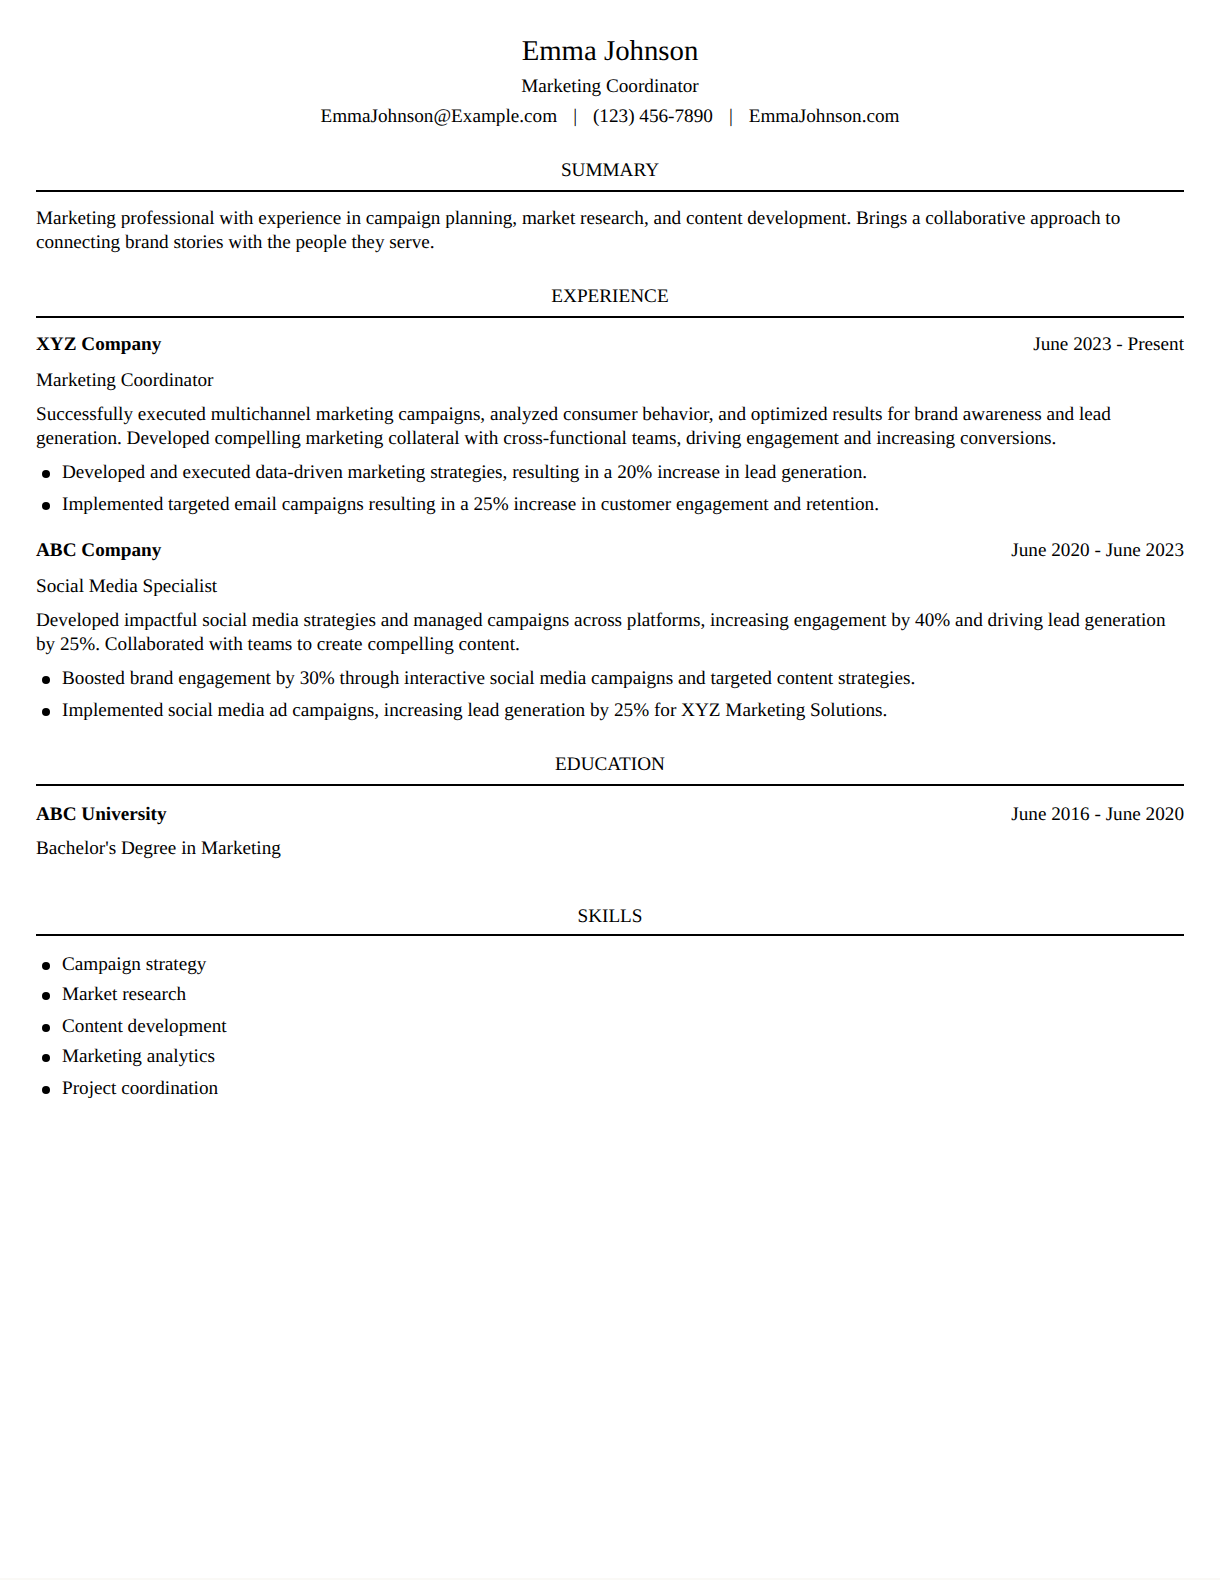
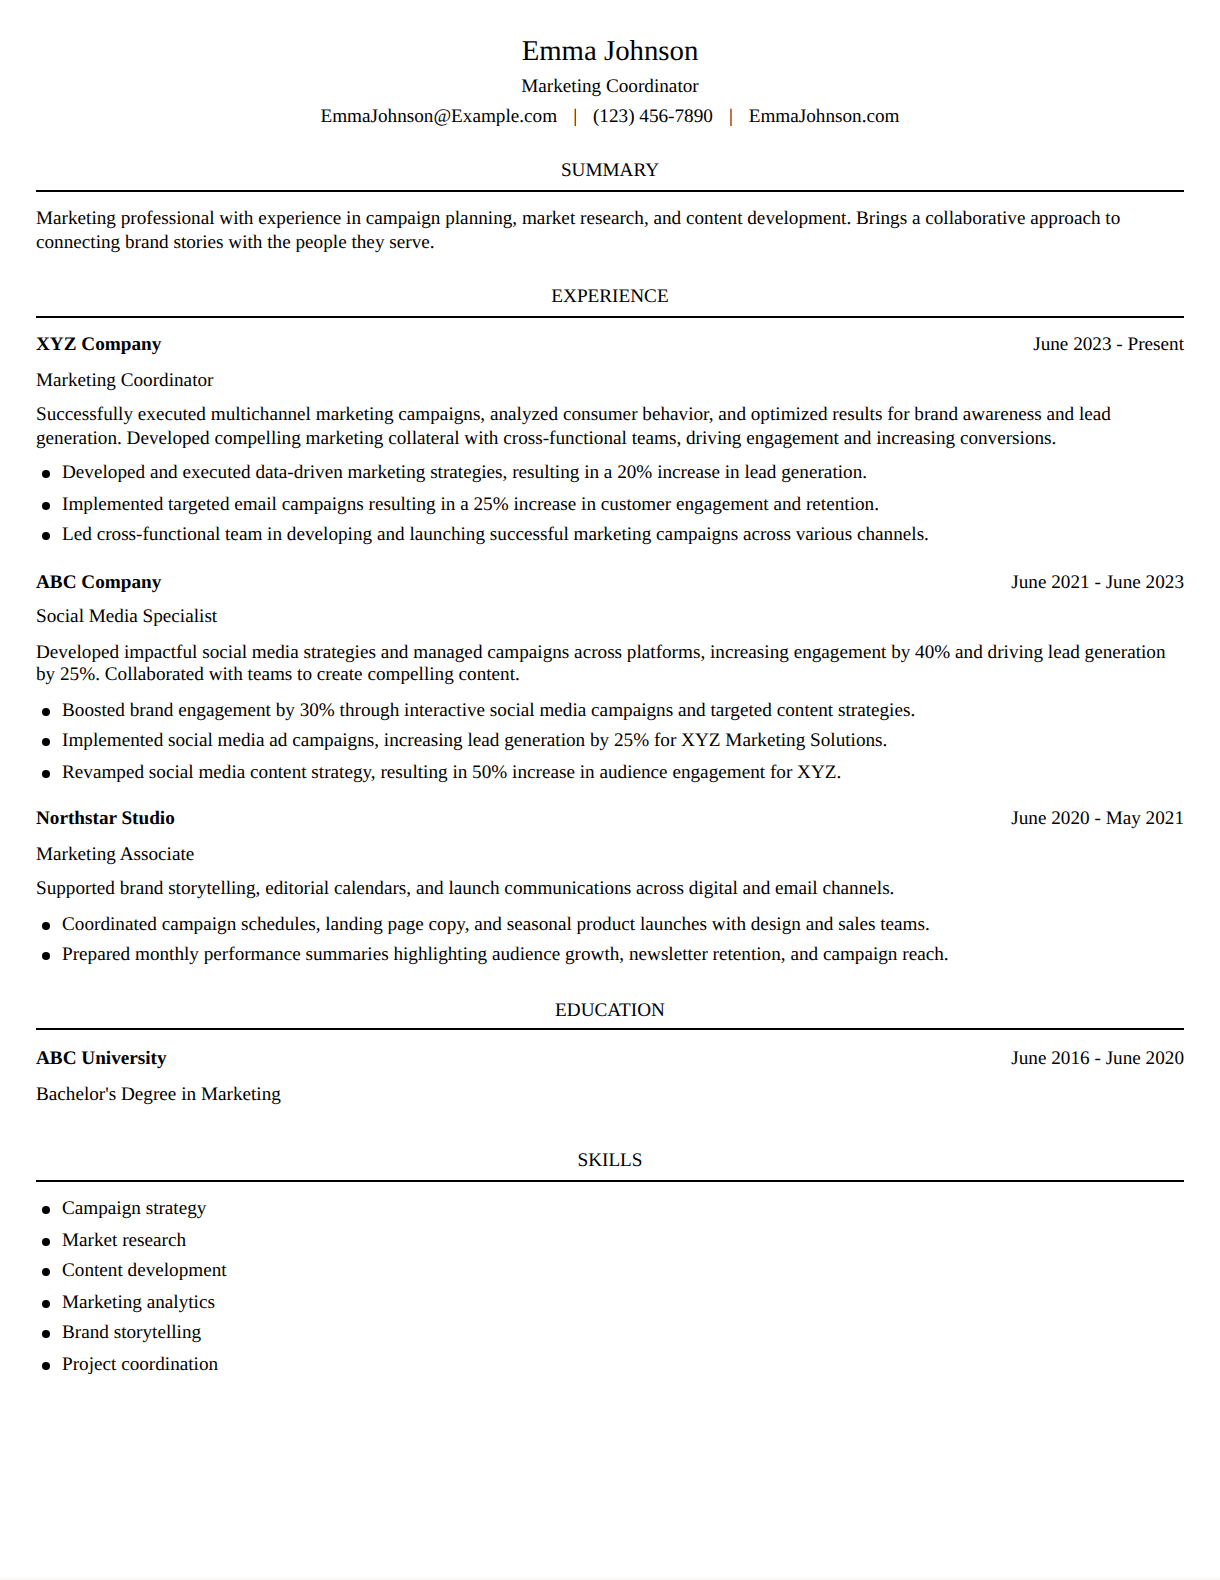
feat: add signed-in homepage dashboard actions and fuller template previews

diff --git a/src/components/landing-page/modern-sections/ModernSections.tsx b/src/components/landing-page/modern-sections/ModernSections.tsx
@@ -27,10 +27,11 @@ const templates = [
 
 type TemplateId = (typeof templates)[number]["id"];
 
-export default function ModernSections() {
+export default function ModernSections({ isSignedIn = false }: { isSignedIn?: boolean }) {
     const rootRef = useRef<HTMLDivElement>(null);
     const [selectedTemplate, setSelectedTemplate] = useState<TemplateId>("basic");
     const currentTemplate = templates.find((template) => template.id === selectedTemplate) ?? templates[0];
+    const ctaHref = isSignedIn ? "/dashboard" : "/sign-up";
 
     useEffect(() => {
         const root = rootRef.current;
@@ -84,7 +85,7 @@ export default function ModernSections() {
             </section>
 
             <section id="how-it-works" className={styles.workflow} aria-labelledby="workflow-heading">
-                <div className={styles.workflowHeading} data-reveal><p className={styles.eyebrow}><span /> A CLEAR WAY FORWARD</p><h2 id="workflow-heading">From a blank page<br /> to your next <em>hello.</em></h2><Link href="/sign-up" className={styles.textLink}>Let&apos;s get started <Icon name="arrow" /></Link></div>
+                <div className={styles.workflowHeading} data-reveal><p className={styles.eyebrow}><span /> A CLEAR WAY FORWARD</p><h2 id="workflow-heading">From a blank page<br /> to your next <em>hello.</em></h2><Link href={ctaHref} className={styles.textLink}>{isSignedIn ? "Open dashboard" : "Let\u2019s get started"} <Icon name="arrow" /></Link></div>
                 <div className={styles.steps}>
                     <article className={styles.step} data-reveal><span className={styles.stepNumber}>01</span><div><h3>Start with your story.</h3><p>Add your experience, skills, and education. This is the foundation we&apos;ll build on together.</p></div><Icon name="document" /></article>
                     <article className={styles.step} data-reveal><span className={styles.stepNumber}>02</span><div><h3>Make it fit the opportunity.</h3><p>Add the job details, get help with the words, and choose a template that feels like you.</p></div><Icon name="spark" /></article>
@@ -93,7 +94,7 @@ export default function ModernSections() {
             </section>
 
             <section id="templates" className={styles.templates} aria-labelledby="templates-heading">
-                <div className={styles.templateIntro} data-reveal><p className={styles.eyebrow}><span /> A GOOD FIRST IMPRESSION</p><h2 id="templates-heading">Your story.<br /> Your style.</h2><p>Considered layouts. Clear typography.<br />A little personality, in all the right places.</p><div className={styles.templateOptions} role="group" aria-label="Choose a resume template preview">{templates.map((template, index) => <button key={template.id} type="button" aria-pressed={selectedTemplate === template.id} aria-controls="resume-template-preview" onClick={() => setSelectedTemplate(template.id)} className={`${styles.templateOption} ${selectedTemplate === template.id ? styles.templateSelected : ""}`}><span className={styles.templateIndex}>0{index + 1}</span><span><strong>{template.name}</strong><small>{template.label}</small></span><span className={styles.templateRadio}>{selectedTemplate === template.id && <Icon name="check" />}</span></button>)}</div><Link href="/sign-up" className={styles.primaryLink}>Find your style <Icon name="arrow" /></Link></div>
+                <div className={styles.templateIntro} data-reveal><p className={styles.eyebrow}><span /> A GOOD FIRST IMPRESSION</p><h2 id="templates-heading">Your story.<br /> Your style.</h2><p>Considered layouts. Clear typography.<br />A little personality, in all the right places.</p><div className={styles.templateOptions} role="group" aria-label="Choose a resume template preview">{templates.map((template, index) => <button key={template.id} type="button" aria-pressed={selectedTemplate === template.id} aria-controls="resume-template-preview" onClick={() => setSelectedTemplate(template.id)} className={`${styles.templateOption} ${selectedTemplate === template.id ? styles.templateSelected : ""}`}><span className={styles.templateIndex}>0{index + 1}</span><span><strong>{template.name}</strong><small>{template.label}</small></span><span className={styles.templateRadio}>{selectedTemplate === template.id && <Icon name="check" />}</span></button>)}</div><Link href={isSignedIn ? "/dashboard?menu=resumes" : "/sign-up"} className={styles.primaryLink}>{isSignedIn ? "Open your resumes" : "Find your style"} <Icon name="arrow" /></Link></div>
                 <div className={styles.templateStage} data-reveal><div className={styles.stageTop}><span>THE TEMPLATE EDIT</span><span>Made for your next chapter ↗</span></div><div className={styles.previewFrame} id="resume-template-preview"><div className={styles.shadowPaper} aria-hidden="true" /><div key={selectedTemplate} className={styles.activePaper}><ActualTemplatePreview template={selectedTemplate} /></div><span className={styles.previewTag}><span /> {currentTemplate.name} / Resume</span></div><div className={styles.stageCaption}><p aria-live="polite"><strong>{currentTemplate.name}.</strong> {currentTemplate.description}</p><span>Actual template · sample content</span></div></div>
             </section>
         </div>

diff --git a/src/app/page.tsx b/src/app/page.tsx
@@ -30,8 +30,8 @@ export default async function Home() {
             <a className={styles.skipLink} href="#main-content">Skip to content</a>
             <Navbar style={{ backgroundColor: "#faf9f6", color: "#202520" }} />
             <div id="main-content" tabIndex={-1} className={styles.content}>
-                <ModernHero />
-                <ModernSections />
+                <ModernHero isSignedIn={Boolean(user)} />
+                <ModernSections isSignedIn={Boolean(user)} />
                 <section id="pricing" className={styles.priceSection} aria-labelledby="pricing-heading">
                     <div className={styles.priceHeading}>
                         <p className={styles.sectionEyebrow}>A SMALL INVESTMENT. A NEW POSSIBILITY.</p>
@@ -49,8 +49,8 @@ export default async function Home() {
                     <p className={styles.sectionEyebrow}>YOUR EXPERIENCE. YOUR POTENTIAL.</p>
                     <h2 id="cta-heading">Your next chapter<br />deserves a <em>strong start.</em></h2>
                     <p>Bring your story. We’ll help you put it on paper.</p>
-                    <Link href="/sign-up" className={styles.ctaButton}>Create my free resume <span aria-hidden="true">↗</span></Link>
-                    <span className={styles.ctaNote}>Free to start · No credit card required</span>
+                    <Link href={user ? "/dashboard" : "/sign-up"} className={styles.ctaButton}>{user ? "Open my dashboard" : "Create my free resume"} <span aria-hidden="true">↗</span></Link>
+                    <span className={styles.ctaNote}>{user ? "Pick up right where you left off" : "Free to start · No credit card required"}</span>
                 </section>
             </div>
             <Footer style={{ backgroundColor: "#faf9f6", color: "#202520" }} />

diff --git a/src/components/landing-page/modern-hero/ModernHero.tsx b/src/components/landing-page/modern-hero/ModernHero.tsx
@@ -25,8 +25,10 @@ function Sparkle({ className }: { className?: string }) {
 const originalBullet = "Worked with the design and engineering teams to improve the onboarding experience.";
 const improvedBullet = "Partnered with design and engineering to simplify onboarding, turning customer insights into a clearer first-use experience.";
 
-export default function ModernHero() {
+export default function ModernHero({ isSignedIn = false }: { isSignedIn?: boolean }) {
     const [isImproved, setIsImproved] = useState(false);
+    const primaryHref = isSignedIn ? "/dashboard" : "/sign-up";
+    const primaryLabel = isSignedIn ? "Open dashboard" : "Build my résumé";
 
     return (
         <section className={styles.hero} aria-labelledby="hero-heading">
@@ -41,8 +43,8 @@ export default function ModernHero() {
                     and keep your job search moving in one place.
                 </p>
                 <div className={styles.actions}>
-                    <Link className={styles.primaryAction} href="/sign-up">
-                        Build my résumé <Arrow />
+                    <Link className={styles.primaryAction} href={primaryHref}>
+                        {primaryLabel} <Arrow />
                     </Link>
                     <a className={styles.secondaryAction} href="#how-it-works">
                         See how it works <span className={styles.playIcon} aria-hidden="true">↗</span>

diff --git a/src/components/nav/Navbar.tsx b/src/components/nav/Navbar.tsx
@@ -29,7 +29,10 @@ const Navbar = async ({ style, isAuth }: NavbarProps) => {
                 </div>
                 <div className={styles.actions}>
                     {session ? (
-                        <ProfileButton session={session} user={user} />
+                        <>
+                            <Link href="/dashboard" className={styles.signIn}>Dashboard</Link>
+                            <ProfileButton session={session} user={user} />
+                        </>
                     ) : !isAuth ? (
                         <>
                             <Link href="/sign-in" className={styles.signIn}>Sign in</Link>

diff --git a/public/images/template-previews/README.md b/public/images/template-previews/README.md
@@ -9,7 +9,7 @@ These PNGs are browser captures of My Resume Hero's existing template components
 | nova.png | src/features/resume/components/resume-templates/nova/Nova.tsx |
 | cover-letter.png | src/features/cover-letter/components/templates/basic/Basic.tsx |
 
-Captured at 610 CSS pixels wide, 2× device scale, using each component's `isPreview` branch and fictional Emma Johnson content based on `sampleResumesArray[0]` in `src/features/authentication/lib/document.ts`. The accent background is #758267, accent text is white, and font is Times-Roman. Resumes use shortened sample experience bullets and a marketing summary; the cover letter uses an illustrative application to Example Marketing Studio.
+Captured at 610 CSS pixels wide, 2× device scale, using each component's `isPreview` branch and fictional Emma Johnson content based on `sampleResumesArray[0]` in `src/features/authentication/lib/document.ts`. The accent background is #758267, accent text is white, and font is Times-Roman. Resumes include three marketing roles, education, and skills for a balanced single-page preview; the cover letter uses an illustrative application to Example Marketing Studio.
 
 The captures contain no dashboard or editor chrome. Update them by rendering the source templates with a sample document and capturing the document element at the same dimensions. Do not substitute invented UI or stock résumé illustrations.
 
